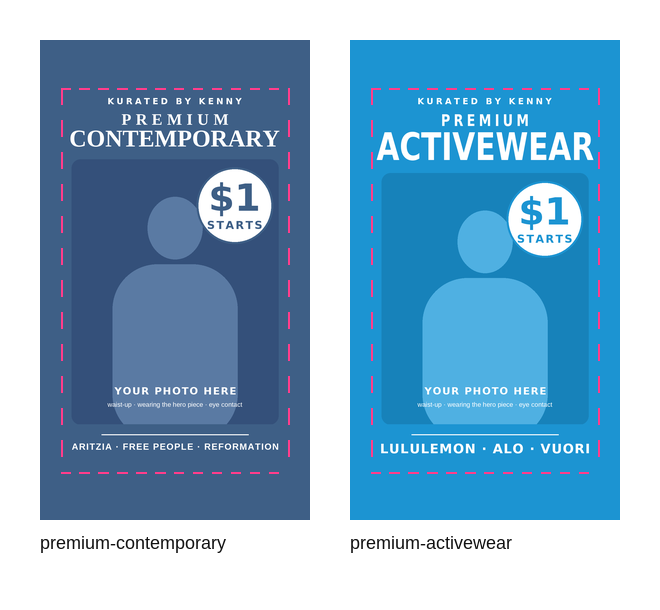
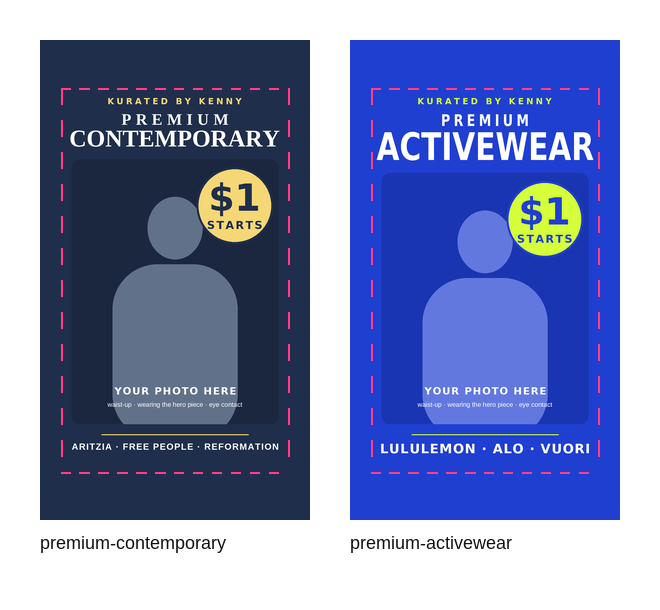
Use navy + butter yellow (Contemporary) and cobalt + neon lime (Activewear) for Whatnot covers
Claude-Session: https://claude.ai/code/session_01VEEmx2cCtEf4yPiDYGkTqa

diff --git a/02-branding/whatnot-covers/make_covers.py b/02-branding/whatnot-covers/make_covers.py
@@ -21,14 +21,14 @@ SANS = F + "liberation/LiberationSans-Regular.ttf"
 
 SHOWS = {
     "premium-contemporary": dict(
-        bg="#3E5F86", ink="#FFFFFF", accent="#FFFFFF", badge_ink="#3E5F86",
-        photo_bg="#34507A", figure="#5A7AA3",
+        bg="#1F2E4A", ink="#FFFFFF", accent="#F6D776", badge_ink="#1F2E4A",
+        photo_bg="#1A273F", figure="#62718A",
         head_font=SERIF_B, head_scale=1.0, top="PREMIUM", main="CONTEMPORARY",
         brands="ARITZIA · FREE PEOPLE · REFORMATION", brand_font=F + "liberation/LiberationSans-Bold.ttf",
     ),
     "premium-activewear": dict(
-        bg="#1C94D2", ink="#FFFFFF", accent="#FFFFFF", badge_ink="#1C94D2",
-        photo_bg="#1782BA", figure="#4FB0E2",
+        bg="#1F3FD1", ink="#FFFFFF", accent="#D4FF3A", badge_ink="#1F3FD1",
+        photo_bg="#1A35B1", figure="#6278DF",
         head_font=SANS_B, head_scale=0.78, top="PREMIUM", main="ACTIVEWEAR",
         brands="LULULEMON · ALO · VUORI", brand_font=SANS_B,
     ),

diff --git a/02-branding/thumbnail-maker.md b/02-branding/thumbnail-maker.md
@@ -34,22 +34,23 @@ Top to bottom, all inside the safe zone:
 5. A thin accent line, then 2–3 brand names in caps
 
 ### Premium Contemporary: "quiet luxury"
-- Background: denim blue, soft window light. Shoot against a plain light wall and put the denim color behind you in Canva, or use a denim-blue backdrop.
-- Colors: denim blue `#3E5F86` · white `#FFFFFF` (all text, logo, and the badge, which has denim text)
+- Background: navy, soft window light. Shoot against a plain light wall and put the navy behind you in Canva.
+- Colors: navy `#1F2E4A` · white `#FFFFFF` (headline, brands) · butter yellow `#F6D776` (logo + $1 badge, with navy text)
 - Fonts: elegant serif headline (Canva: Playfair Display or Bodoni), clean bold sans for brands
 - Text: `PREMIUM CONTEMPORARY` · `$1 STARTS` · `ARITZIA · FREE PEOPLE · REFORMATION`
 - Outfit: one elevated piece, like a knit set, slip dress, or blazer + tailored trousers
 
 ### Premium Activewear: bold and high-energy
-- Background: poolside blue, bright even light
-- Colors: poolside blue `#1C94D2` · white `#FFFFFF` (all text, logo, and the badge, which has blue text)
+- Background: cobalt blue, bright even light
+- Colors: cobalt `#1F3FD1` · white `#FFFFFF` (headline, brands) · neon lime `#D4FF3A` (logo + $1 badge, with cobalt text)
 - Fonts: heavy condensed sans (Canva: Anton, Bebas Neue, or League Gothic)
 - Text: `PREMIUM ACTIVEWEAR` · `$1 STARTS` · `LULULEMON · ALO · VUORI` (add `NWT` if new with tags)
-- Outfit: a matching set (Align, Define, Alo) in a color that pops against blue (white, black, coral, neon)
+- Outfit: a matching set (Align, Define, Alo) in a color that pops against cobalt (white, black, pink, lime). Avoid blue sets.
 
 ## Templates
 - Main cover photo: `whatnot-covers/premium-contemporary.png`, `whatnot-covers/premium-activewear.png`
 - Feed-size check: `whatnot-covers/preview-feed-size.png`
+- Other color options considered: `whatnot-covers/options-contemporary.png`, `whatnot-covers/options-activewear.png`
 - Bundle / lot photo:
 - Sale / promo photo:
 

diff --git a/02-branding/brand-ideas-planning.md b/02-branding/brand-ideas-planning.md
@@ -3,10 +3,11 @@
 ## Brand basics
 - Shop names: KennyShop / Kurated by Kenny
 - Vibe / aesthetic: curated, premium brands at $1 starts. Two show lines:
-  - Premium Contemporary: quiet luxury (denim blue + white, serif headline)
-  - Premium Activewear: bold, summery (poolside blue + white, heavy block font)
-- Brand colors: white `#FFFFFF` on both. Contemporary: denim blue `#3E5F86`.
-  Activewear: poolside blue `#1C94D2`.
+  - Premium Contemporary: quiet luxury (navy + white + butter yellow, serif headline)
+  - Premium Activewear: bold, sporty (cobalt + white + neon lime, heavy block font)
+- Brand colors: deep blue + white + one bright accent on both, so the two shows look related.
+  Contemporary: navy `#1F2E4A` + butter yellow `#F6D776`.
+  Activewear: cobalt `#1F3FD1` + neon lime `#D4FF3A`.
 - Logo: `KURATED BY KENNY`, spaced-out caps in the accent color, top of every cover
 - Who I'm selling to: Whatnot buyers hunting Aritzia / Free People / Reformation and
   Lululemon / Alo / Vuori deals
